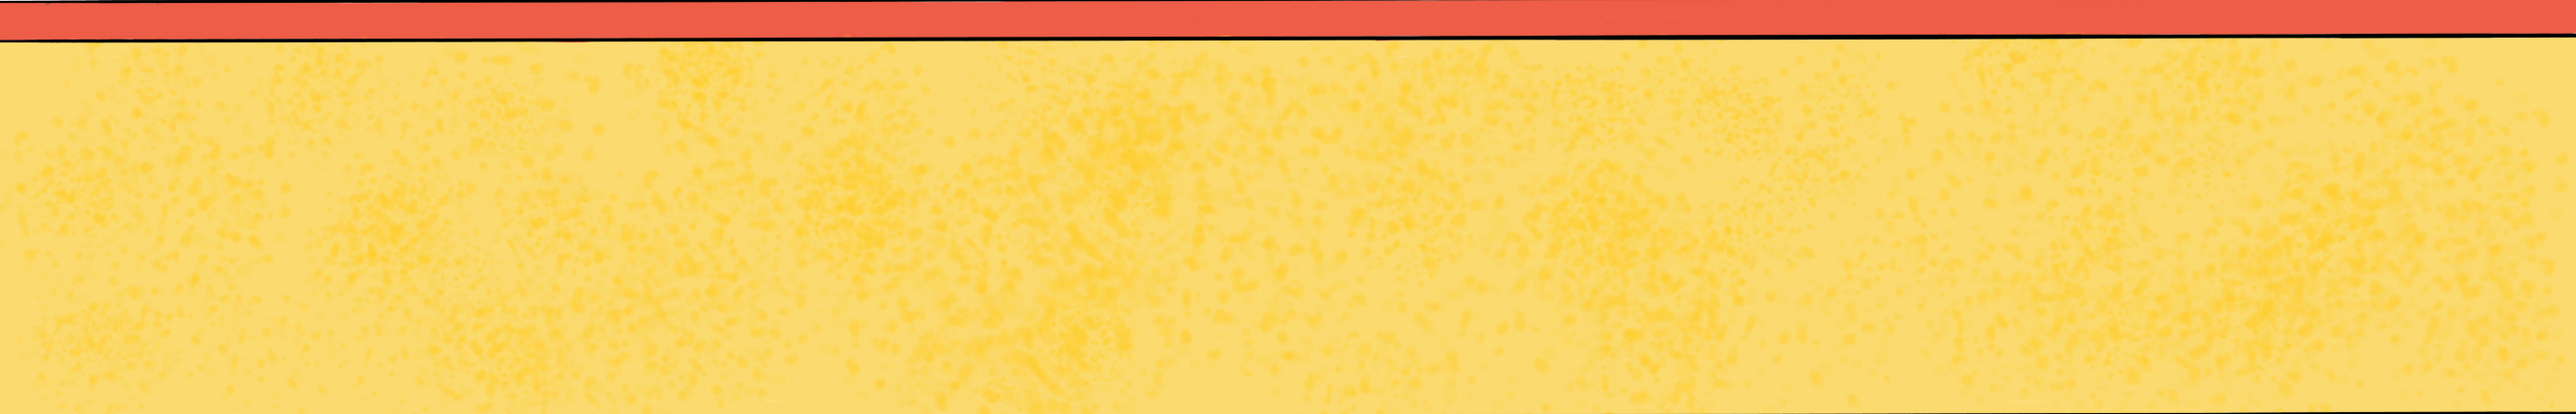
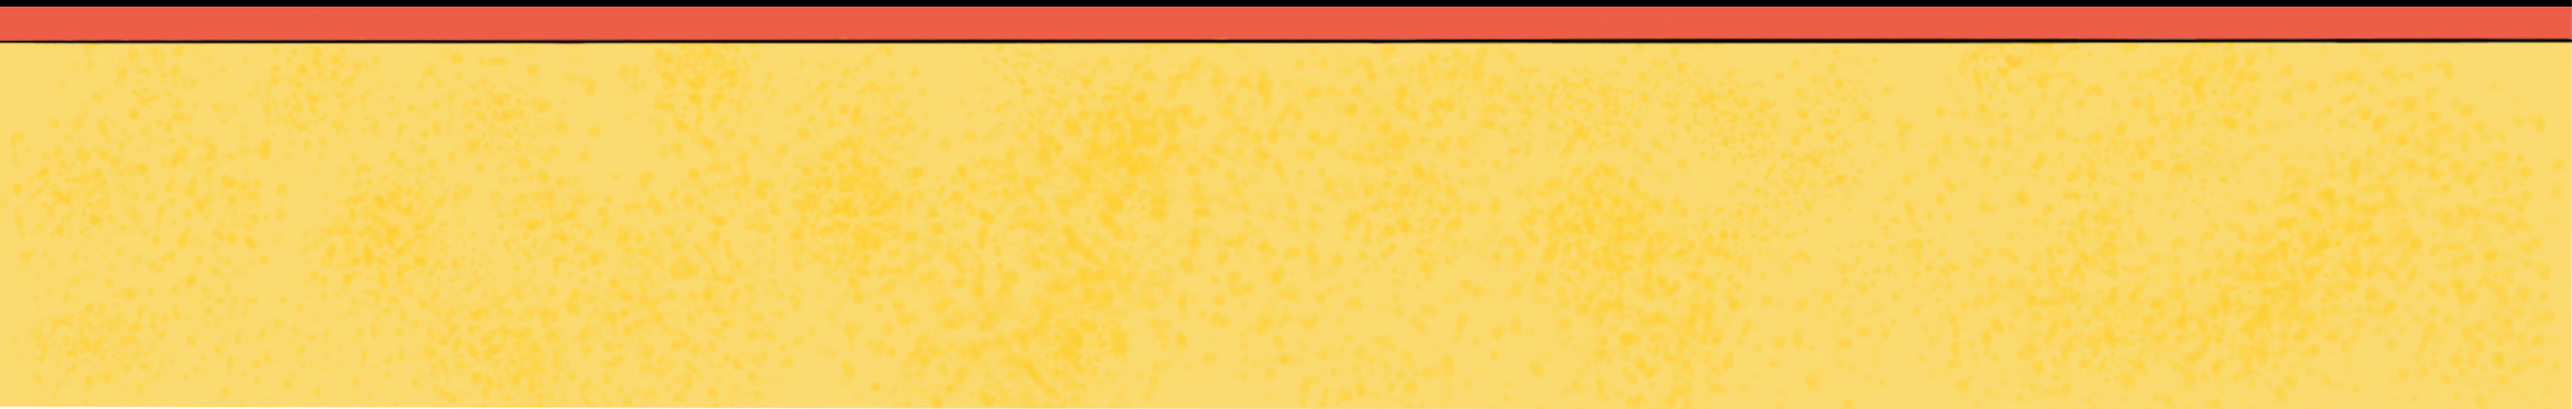
added floor and bird is flapping with wings

diff --git a/src/games_all/flappybird/bird.js b/src/games_all/flappybird/bird.js
@@ -1,15 +1,27 @@
 import React from 'react'
-import {useSelector, useDispatch} from "react-redux";
+import {useSelector} from "react-redux";
+
+import BirdHigh from "../../assets/images/flappy_bird/Bird_hoch.png"
+import BirdLow from "../../assets/images/flappy_bird/Bird_runter.png"
+
 
 const selectHeight = state => state.bird.height
+const selectSpeed = state => state.bird.speed_y
+
 
 export default function Bird() {
 
     const height = useSelector(selectHeight)
+    const speed = useSelector(selectSpeed)
 
-    const dispatch = useDispatch()
+    let bird_image = BirdHigh
+
+    if (speed < 0) {
+        bird_image = BirdLow
+    }
 
     let style = {
+        backgroundImage: `url(${bird_image})`,
         transform: `translate(0, ${height}px)`
     }
 

diff --git a/src/assets/scss/_flappybird.scss b/src/assets/scss/_flappybird.scss
@@ -16,6 +16,8 @@
 
 .floor-flappy-bird {
   background-color: #ff0000;
+  background-image: url("../images/flappy_bird/Boden.png");
+  background-size: contain;
   width: 100%;
   height: 100%;
   grid-row: 2;
@@ -24,13 +26,14 @@
 
 .bird-flappy-bird {
   position: absolute;
-  width: 20px;
-  height: 20px;
+  width: 50px;
+  height: 100%;
   display: inline-block;
-  background-color: #ff0000;
-  border-radius: 10px;
   top: 188px;
   left: 960px;
+  background-size: contain;
+  background-repeat: no-repeat;
+
 }
 
 .menu-flappy-bird {
@@ -48,7 +51,7 @@
     text-align: center;
     border: none;
     border-radius: 10px;
-    margin: 20px auto;
+    margin: 15% auto;
     background-color: lightcyan;
     font-size: 23px;
   }

diff --git a/src/games_all/flappybird/pipe.js b/src/games_all/flappybird/pipe.js
@@ -22,7 +22,7 @@ export default function Pipe(props) {
 
     let style_down = {
         transform: `translate(${x_offset}px, ${height + space}px)`,
-        height: `${game_height - (height + space) + 1}px`
+        height: `${game_height - (height + space) + 0}px`
     }
 
     return (
